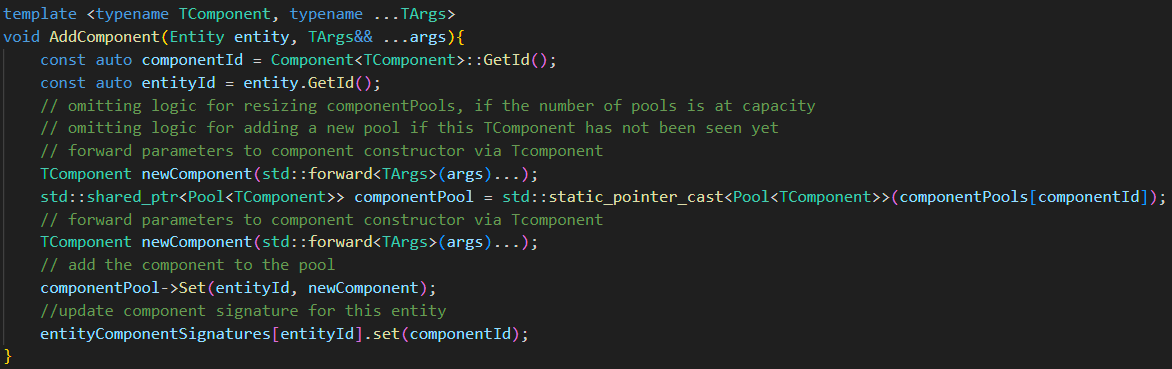
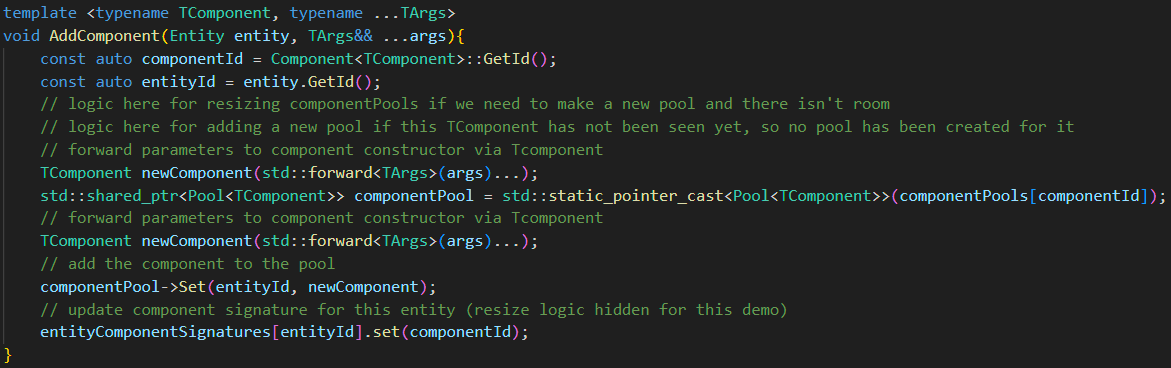
signature

diff --git a/src/components/Rotmgabe.jsx b/src/components/Rotmgabe.jsx
@@ -55,9 +55,31 @@ export const Rotmgabe = ({ className, visible }) => {
             </div>
             <div className="flex flex-row items-center justify-center gap-22">
                 <div className="flex flex-col items-center justify-center gap-1">
-                    <div className="passage-text">Therefore, modifying the data for an entity means modifying the pools for the component that holds that data. Here is a code example of adding a component to an entity:</div>
+                    <div className="passage-text">Modifying an entity's data means updating the pool of a corresponding component. Behavior is composition-driven, so an entity's behavior will depend on the set of components it holds. We track this with a signature, efficiently represented as a bitset. Representing the presence of a component in the signature simply means flipping the bit at the index of the component's static Id.</div>
+                    <img className="rounded-image" src="/signature.png"></img>
+                    <img className="rounded-image" src="/signatures.png"></img>
                     <img className="rounded-image" src="/addcomponent.png"></img>
                 </div>
+            </div>
+            <div className="passage-text">
+                For example, here are some basic entities, which have behavior defined by their set of components:
+            </div>
+            <div className="grid grid-cols-3 items-center justify-center gap-12">
+                <div className="flex flex-col items-center justify-center gap-1">
+                    <div className="passage-text h-[200px]">Entities with sprite and position components are visible; with only these, they may be the floor or some decorative object.</div>
+                    <img className="w-48 h-48" src="/floor.png"></img>
+                </div>
+                <div className="flex flex-col items-center justify-center gap-1">
+                    <div className="passage-text h-[200px]">Entities with sprite, position, and hitbox components are visible and interactable; with these and a solidBody component, they may be impassable barriers.</div>
+                    <img className="w-48 h-48" src="/tree.png"></img>
+                </div>
+                <div className="flex flex-col items-center justify-center gap-1">
+                    <div className="passage-text h-[200px]">Entities with sprite, position, hitbox, velocity, and damage components are visible, interactable, mobile, and have some damage value; with only these, they're likely projectiles.</div>
+                    <img className="w-48 h-48" src="/projectile.png"></img>
+                </div>
+            </div>
+            <div className="passage-text">
+                Notice how different "types" of entities often share a subset of components -- thats key in understanding how ECS optimizes CPU access -- system example. start with simple systems (render, movement) --  then show how more components, other systems interested!
             </div>
             <div className="passage-text">
                 need to get into systems so we can start talking about cache locality, vectorization, data oritented design (structs contain data based on access)
@@ -67,6 +89,7 @@ export const Rotmgabe = ({ className, visible }) => {
             </div>
             <div className="passage-text">
                 give credit to pikuma, and credit to who he cited. "Credit: I learned this design pattern from an online lecture series by Gustavo X, which was based off an academic paper published by Professor Y."
+                credit to oryx design lab, of which I purchased these assets from
             </div>
         </div>
     )

diff --git a/codeExamples/DOD.cpp b/codeExamples/DOD.cpp
@@ -4,6 +4,7 @@
 #include <unordered_map>
 #include <memory>
 #include "D:\laboratory\c++\Realm-of-the-Mad-Gabe\libs\glm\glm.hpp"
+#include <bitset>
 
 template <typename T>
 struct Component{};
@@ -70,8 +71,8 @@ template <typename TComponent, typename ...TArgs>
 void AddComponent(Entity entity, TArgs&& ...args){
     const auto componentId = Component<TComponent>::GetId();
     const auto entityId = entity.GetId();
-    // omitting logic for resizing componentPools, if the number of pools is at capacity
-    // omitting logic for adding a new pool if this TComponent has not been seen yet
+    // logic here for resizing componentPools if we need to make a new pool and there isn't room
+    // logic here for adding a new pool if this TComponent has not been seen yet, so no pool has been created for it
     // forward parameters to component constructor via Tcomponent
     TComponent newComponent(std::forward<TArgs>(args)...);
     std::shared_ptr<Pool<TComponent>> componentPool = std::static_pointer_cast<Pool<TComponent>>(componentPools[componentId]);
@@ -79,6 +80,15 @@ void AddComponent(Entity entity, TArgs&& ...args){
     TComponent newComponent(std::forward<TArgs>(args)...);
     // add the component to the pool
     componentPool->Set(entityId, newComponent);
-    //update component signature for this entity
+    // update component signature for this entity (resize logic hidden for this demo)
     entityComponentSignatures[entityId].set(componentId);
 }
+
+
+
+#define MAX_COMPONENTS 128
+
+
+typedef std::bitset<MAX_COMPONENTS> Signature;
+
+std::vector<Signature> entityComponentSignatures;
